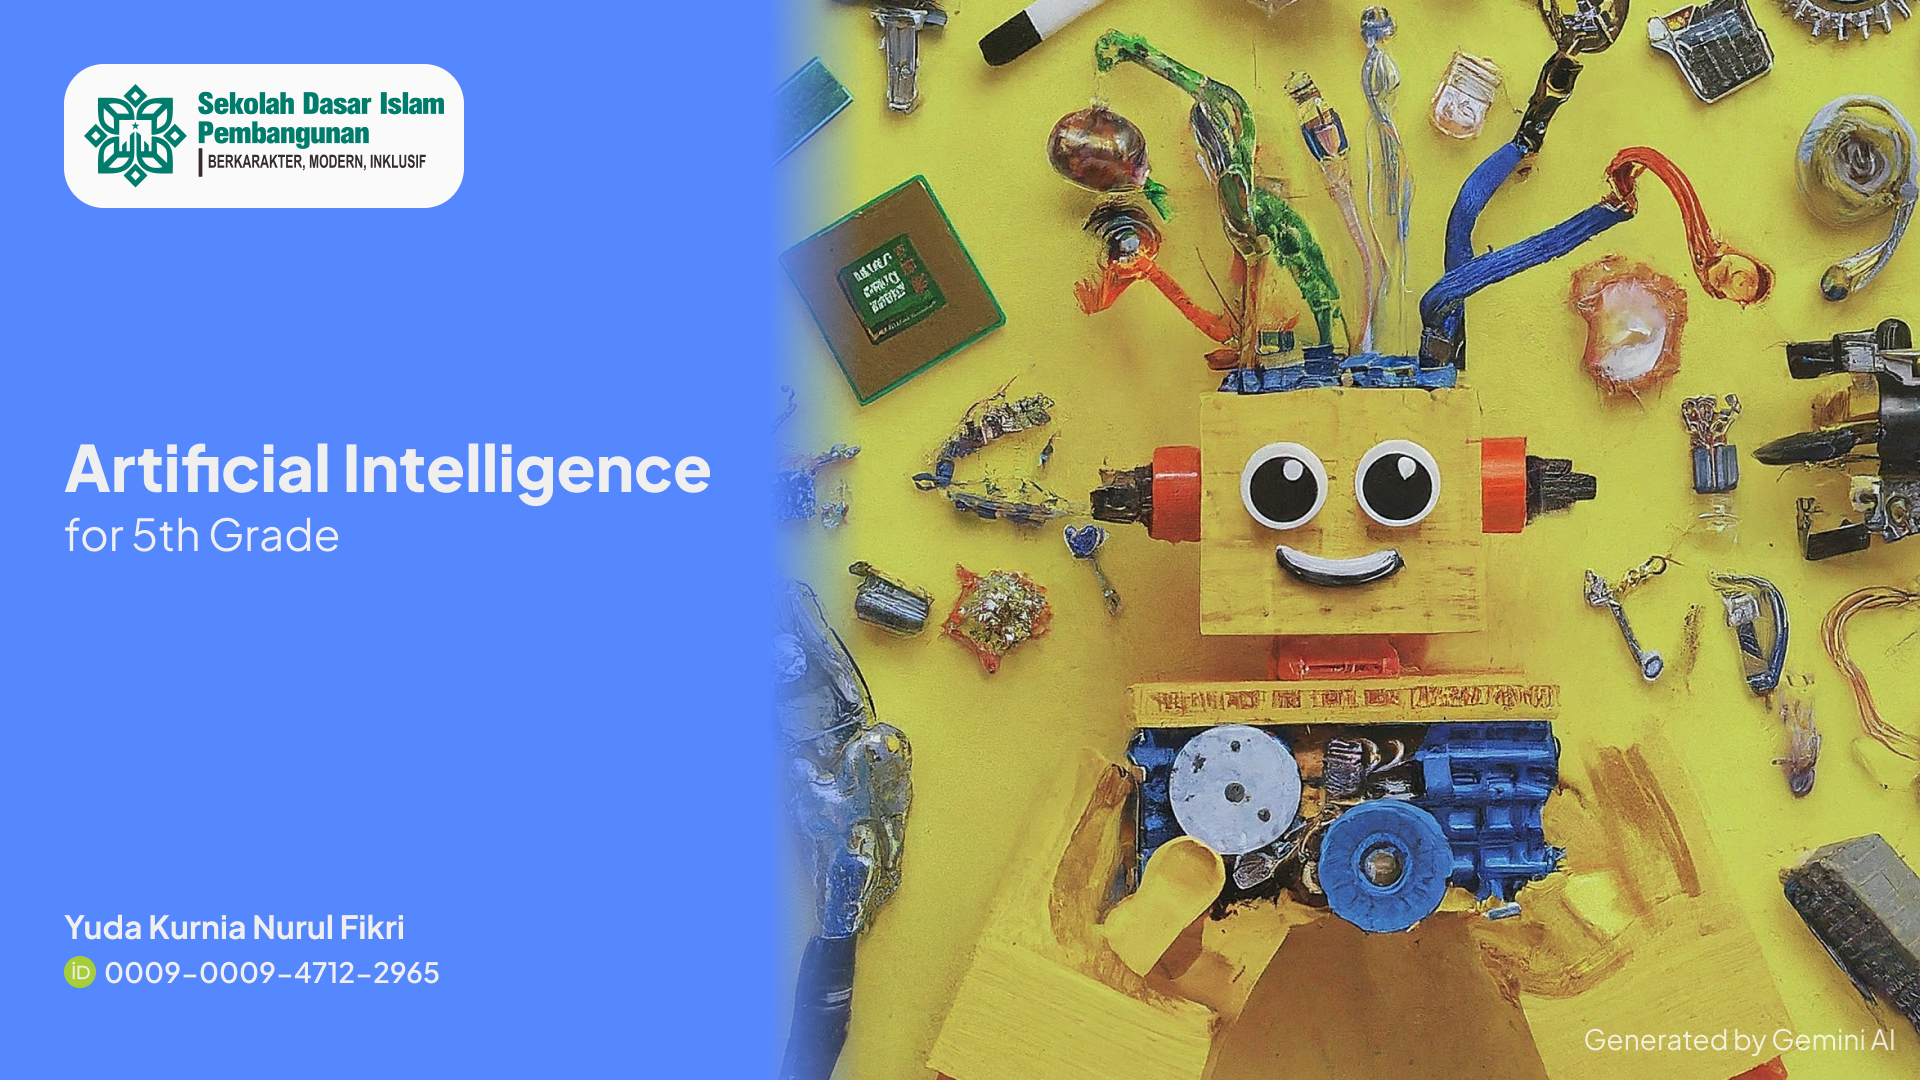
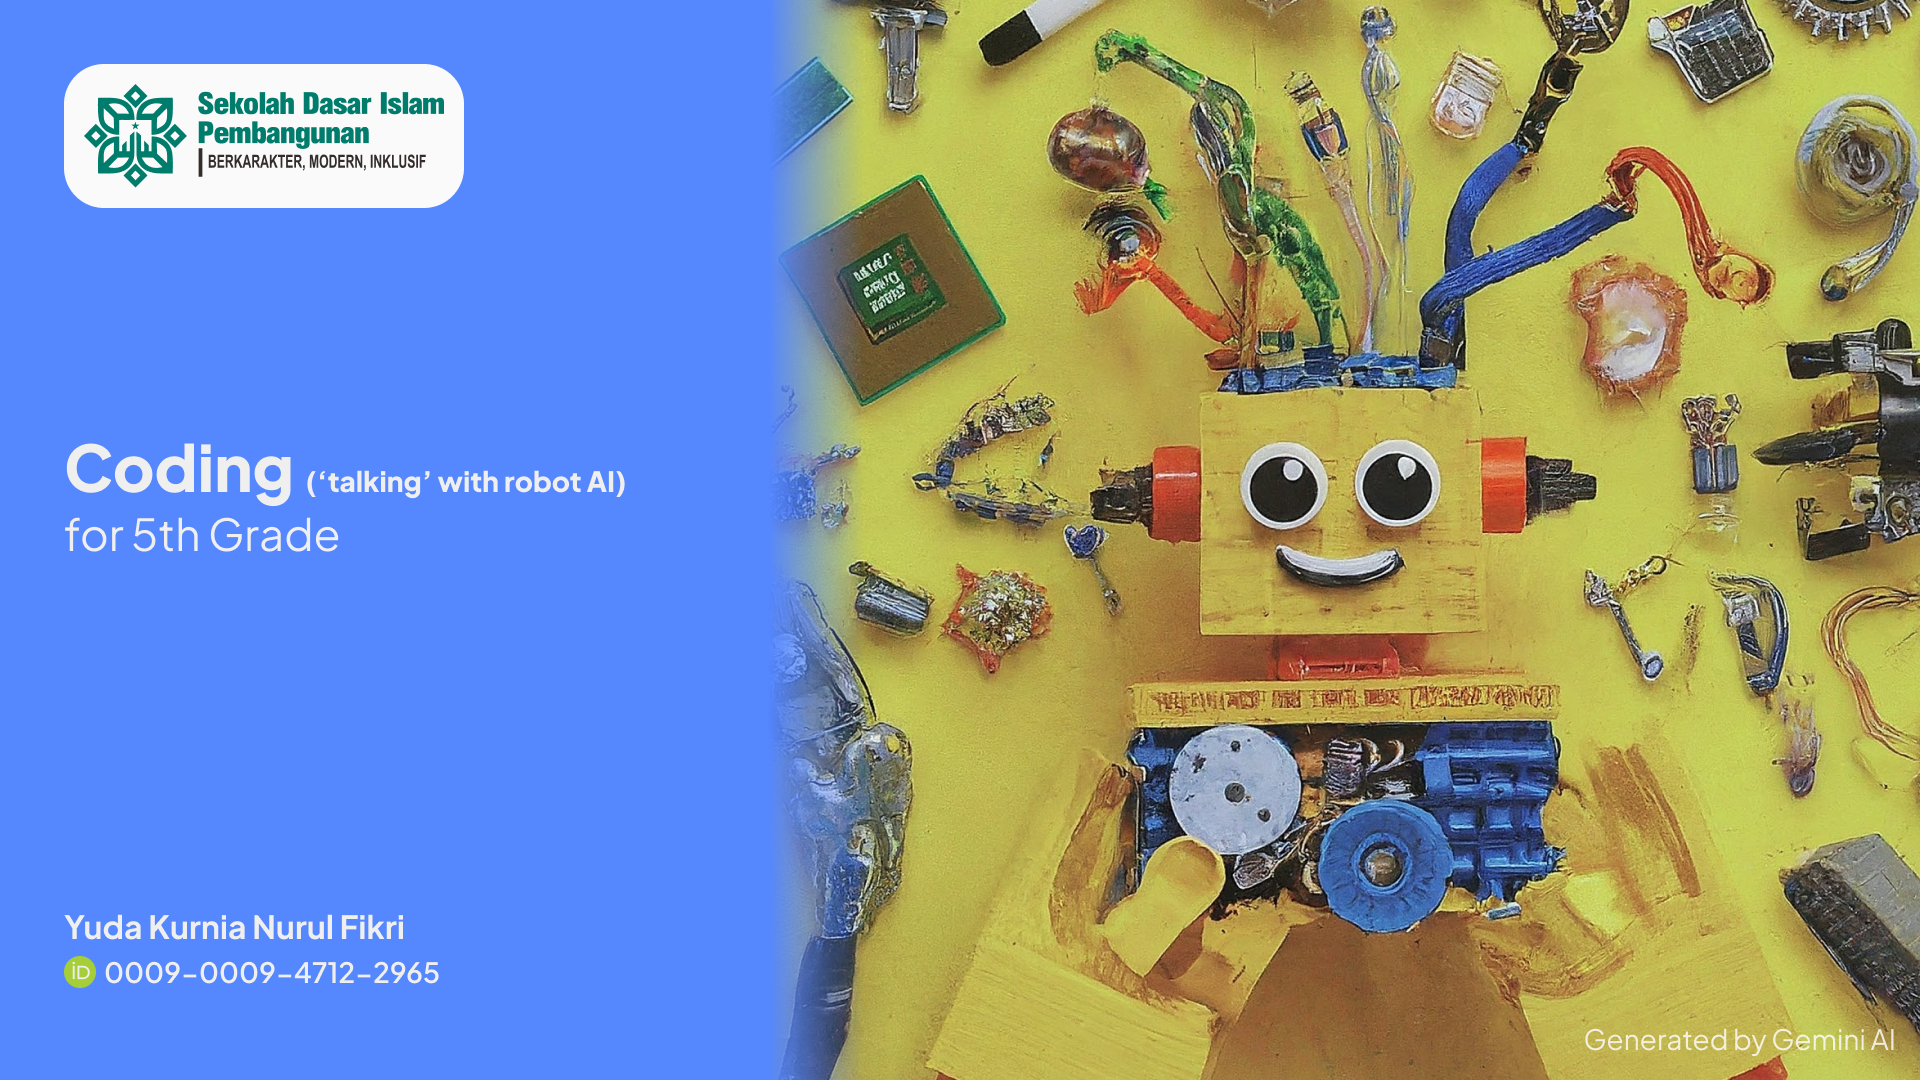
updated

Changed region(s): [[0.0312, 0.3972, 0.375, 0.4889]]

diff --git a/content/01_welcome_to_coding.md b/content/01_welcome_to_coding.md
@@ -1,0 +1,176 @@
+---
+date: 2024-07-13
+exports:
+  - format: pdf
+    template: cageo
+    output: exports/01_Welcome_To_Coding.pdf
+jupytext:
+  formats: md:myst
+  text_representation:
+    extension: .md
+    format_name: myst
+    format_version: 0.13
+    jupytext_version: 1.11.5
+kernelspec:
+  display_name: Python 3
+  language: python
+  name: python3
+---
+
+# [01] Welcome to Coding!
+<!--  -->
+Hi, we recite Basmallah together before start our session
+
+> **Bismillahirrahmanirrahim**
+
+## Getting to know to Coding
+### [Introduction]
+
+Let's watch this video first:
+
+:::{iframe} https://www.youtube.com/embed/g1J4181W8ss?si=DxjCDpYGl67qL_-x
+Let's know what is Coding here
+:::
+
+:::{hint} What we learn for this session? Click me!
+:class: dropdown
+We are going to know what is Coding really is by some approach. Either you are Grade 3, 4, or 5, we need to know this one first before deep diving into Coding subject along this academic year and the future 😊🚀
+
+In this session we will get our hands wet by exploring Scratch app on our lovely android device. Do not tell me that you have not installed it yet, but if is not, we wait for you to install.
+:::
+
+<!-- So what is Artificial Intelligence?
+
+**Artificial Intelligence** is an intelligence in form of machine that can think and learn like human does.
+
+Artificial Intelligence is created for doing tasks that human are not too efficient to do the task, example:
+1. Creating summary of a video in less than video duration
+1. Creating arts in form of images and video without regular editing process
+1. Do recognize writings even it is old Egyptian writings
+1. Controlling a drone without collapsing other objects
+1. Finding how to manage Jakarta traffic much more better
+1. and many more, -->
+
+In simple term, Coding is an activity that we do to give instructions via a specific language to the Computer. You are not misread it that Coding is also an language subject but it specifically created for telling, instruct, interacting, etc. to a Computer even many Computers at once!
+
+Along this academic year, we learn Coding by using Block Programming approach so that's why we are using Scratch 3.0 application as it uses Block Programming paradigm.
+
+Block Programming is a fun and friendly paradigm for children and also adult that we drag and drop blocks to create instruction for Computer. We will dive into it in the next part!
+
+---
+### [Connection]
+
+:::{tip} Coding is literally writing an instruction to a computer. So, we will do identify some parts involved!
+:::
+
+Let's identify what are the parts involved in Coding!
+
+```{csv-table} Coding parts
+:header: "What", "is...", "Function"
+"The Actor", "is called Coder", "Writes a code in specific computer language for computers and other humans",
+"The Stuff", "is called Code", "Code is a bunch of text (computer instruction) written in specific programming language to be translated by computer and then the computer execute it into actionable instruction",
+"The Executor", "is called Computer", "It is an entity of living creature made by human to simplify human tasks that is done faster, repeated, complex at a time by the computer",
+```
+
+And yes, they are some parts that involves in Coding.
+
+:::{hint} Can you mention other parts that involved in Coding too? Tell your friends and discuss it with your Guardian or Teacher!
+:::
+
+---
+
+## Getting started to our tools called **Scratch**
+<!--  -->
+Scratch is something when you feels itchy and you rub it to reduce itchiness? 🙃 no, I am just kidding.
+
+**Scratch** is an application that we can use for building an interactive stories, games, and even an animation creation to be shared with our friends and teacher using special programming language, Scratch Programming Language. We build the creation using drag and drop coding style.
+
+Scratch is designed especially for young people even everybody can use it.
+
+To run Scratch, you may open it on browsers or install it for Google Play Store
+
+We are going to Scratch application now
+
+```{image} ../_static/images/blank-project.png
+:label: Blank Project Page on Scratch 3.0
+:alt: Blank Project Page on Scratch 3.0
+:align: center
+```
+<!-- s -->
+:::{hint} Tips! Try to zoom in and out the image to see it clearer!
+:::
+---
+### [Application]
+
+In this picture, you are seeing many objects in it. Starting from a large blank panel and also an iconic Scratch Cat on the top right.
+
+:::{tip} Task!
+Teacher will give you a sheet of designated F4 paper and your task is to draw what are the object kinds you found while exploring the Scratch application.
+
+The more object kinds you draw, the more medal you get!
+
+:::{important} Medals of Explorer
+:class: dropdown
+We will do this as our extension activity for this session
+
+| Medals Quality | Description        |
+| :------------- | :----------------- |
+| ⭐             | 2 kinds of object  |
+| ⭐⭐           | 5 kinds of object  |
+| ⭐⭐⭐         | 7 kinds of object  |
+| ⭐⭐⭐⭐       | 9 kinds of object  |
+| ⭐⭐⭐⭐⭐     | 11 kinds of object |
+:::
+
+### [Reflection]
+
+So, what are the function of Scratch in Coding learning?
+
+:::{hint} We learn Scratch application aiming...:
+:class: dropdown
+
+1. To learn and master coding, we use Scratch as our very first step in Coding.
+1. To create a simple program to make our task easier.
+1. To build logical thinking ability so that we can solve problems in better and fluent way
+:::
+
+<!-- So, what are the function of Scratch in learning Artificial Intelligence?
+
+:::{hint} We learn Scratch program aiming...:
+:class: dropdown
+
+1. To create an application, we use Scratch as our very first step in programming
+1. To create an app with Artificial Intelligence, we need to practice some thinking logic, so by block programming we will understand how computer (AI) thinks
+1. What will we get from learning Scratch in Artitifical Intelligence subject? Feel free to share with everyone!
+::: -->
+
+---
+### [Extension]
+
+To be more diligent, try to explore any menus, pages, or buttons in Scratch and draw it in the previous task!
+
+In the next meeting, we will create a simple code to control the Scratch cat. Do explore Scratch application and you will be familiar as soon as you explore more!
+
+See ya on the next session!
+
+
+:::{hint} Look at me too!
+:class: dropdown
+
+Explore this Scratch project to get know about Scratch better
+https://scratch.mit.edu/projects/1028627134
+
+For more example, explore this web page
+https://scratch.mit.edu/studios/146521
+
+:::
+
+<!-- separate this into an individual page to reduce load -->
+:::{iframe} https://scratch.mit.edu/projects/1044022680/embed
+Let's try some Coding can do here
+(if it says Our server is Scratching its head means that it is error. Come back again to try it later!)
+
+How to control:
+{kbd}`Up`, {kbd}`Down`, {kbd}`Left`, or {kbd}`Right`
+
+:::

diff --git a/intro.md b/intro.md
@@ -12,7 +12,7 @@ kernelspec:
   name: python3
 ---
 
-# Artificial Intelligence for 5th Grade
+# Coding for 5th Grade
 
 ```{image} _static/images/Cover_5th Grade.png
 :alt: Cover Page
